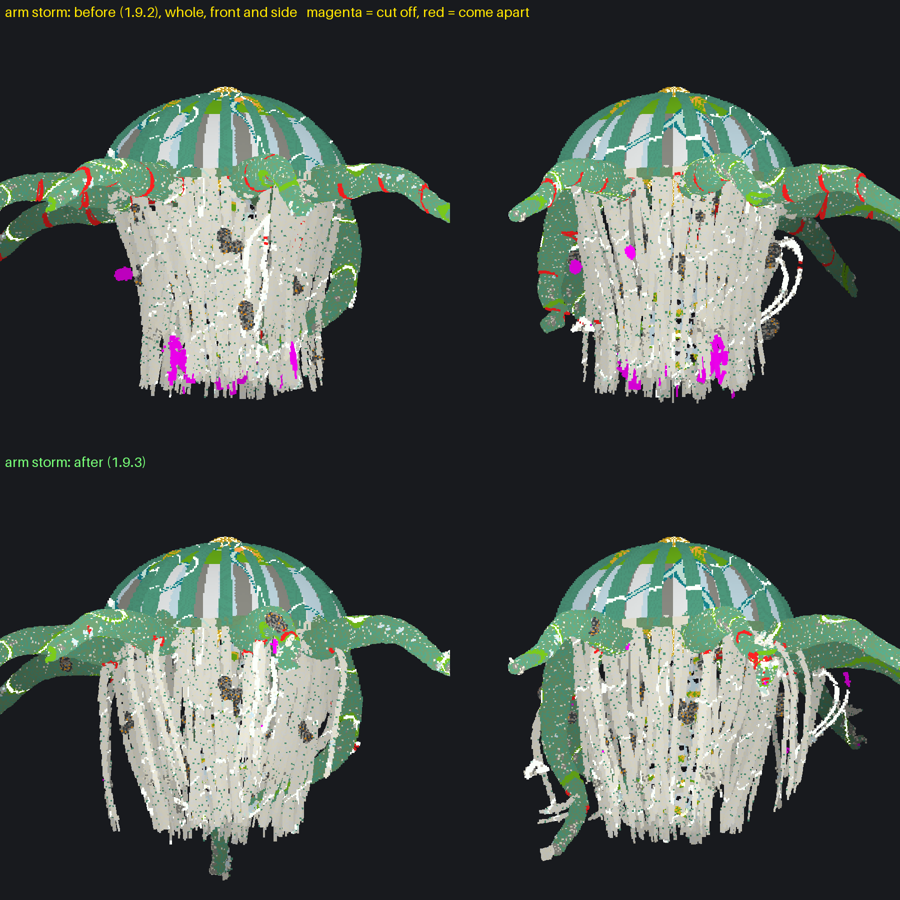
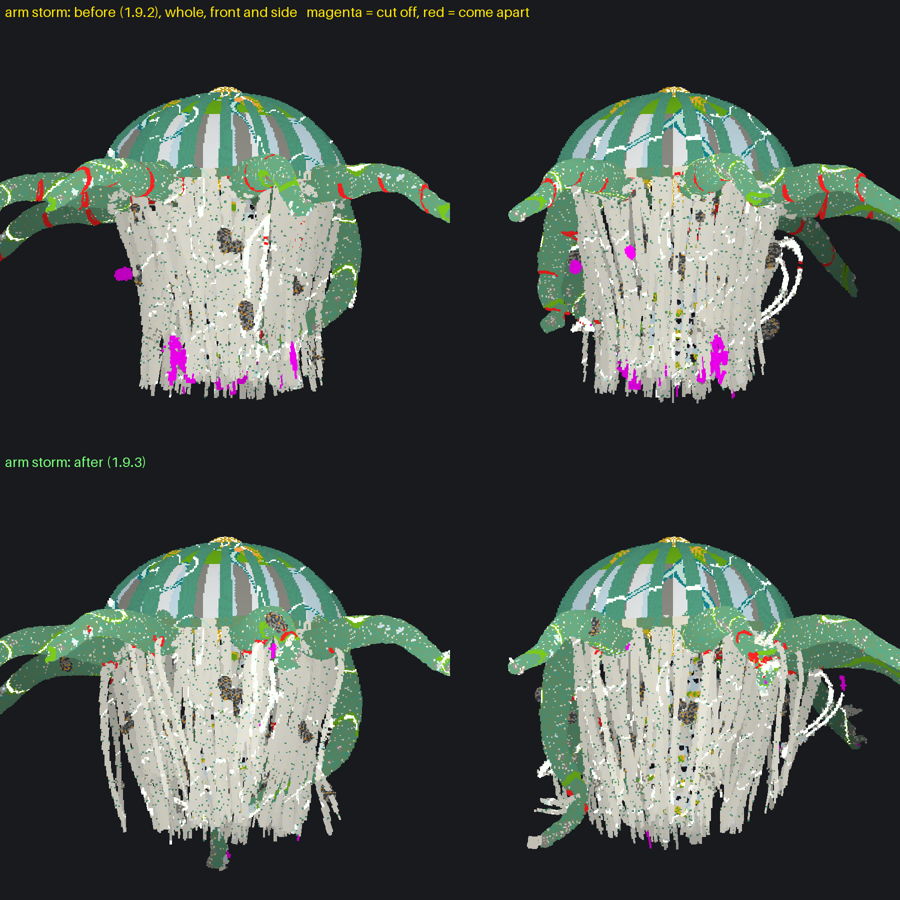
Work in progress: Hollowbell fixes (saved while the worker carries on)
Claude-Session: https://claude.ai/code/session_01K6VHANhmuPeJiKHCUftxpT

diff --git a/src/main/java/net/jj/hollowbell/rig/BellAnim.java b/src/main/java/net/jj/hollowbell/rig/BellAnim.java
@@ -297,12 +297,15 @@ public final class BellAnim {
                         if (sl < 1e-4f) { sx = -bz; sy = 0f; sz = bx; sl = Math.max(1e-4f, (float) Math.sqrt(sx * sx + sz * sz)); }
                         // (eased back a quarter of the way each tick, a little at a time: snapped straight to the
                         // limit, a strand was yanked along whole when his bell came down hard)
-                        float to = ang - (ang - lim) * 0.25f;
+                        // (lying on the ground or knocked against it, held to the limit outright: there the ground
+                        // would otherwise fold it right back on itself)
+                        boolean onGround = steps - knockedAt[c] <= 8;
+                        float to = ang - (ang - lim) * (onGround ? 1f : 0.25f);
                         float cl = Mth.cos(to), sn = Mth.sin(to);
                         dx = bx * cl + sx / sl * sn; dy = by * cl + sy / sl * sn; dz = bz * cl + sz / sl * sn;
                         // and never more than a little way in a tick
                         float ox = (dx - ux) * want, oy = (dy - uy) * want, oz = (dz - uz) * want;
-                        float ol = (float) Math.sqrt(ox * ox + oy * oy + oz * oz), cap = 0.3f;
+                        float ol = (float) Math.sqrt(ox * ox + oy * oy + oz * oz), cap = onGround ? Float.MAX_VALUE : 0.3f;
                         if (ol > cap) { float f = cap / ol; dx = ux + (dx - ux) * f; dy = uy + (dy - uy) * f; dz = uz + (dz - uz) * f; }
                         d = (float) Math.sqrt(dx * dx + dy * dy + dz * dz);
                     }
